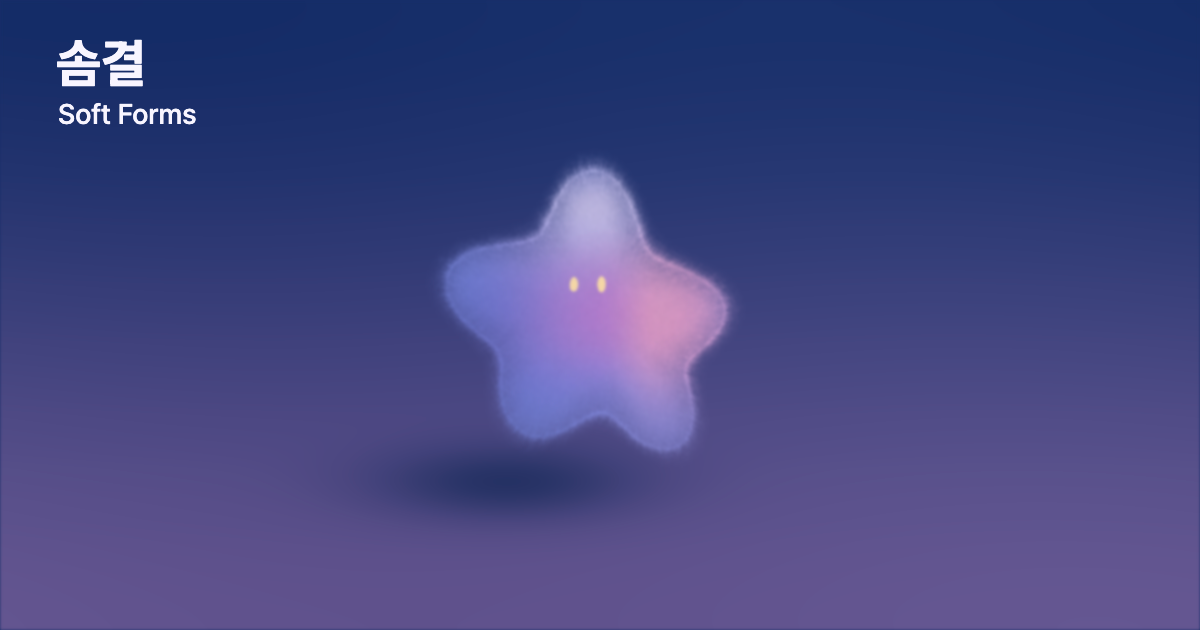
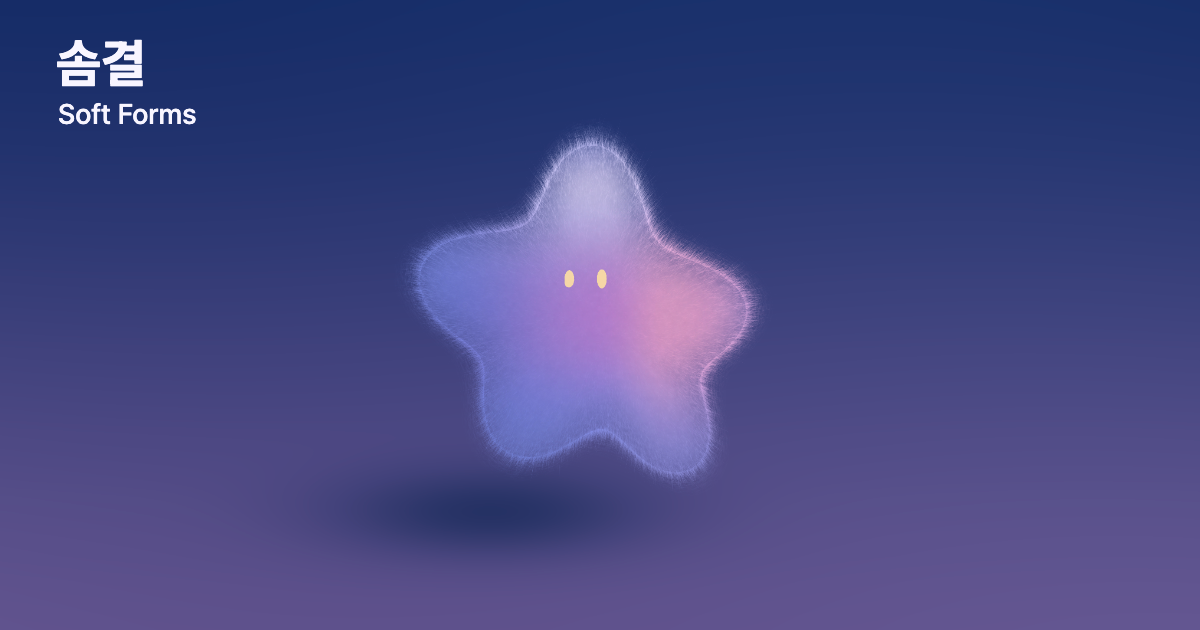
fix(soft-forms): sharpen social share artwork

diff --git a/docs/artworks/soft-forms/social-share-image.md b/docs/artworks/soft-forms/social-share-image.md
@@ -1,6 +1,6 @@
 # 솜결 · Soft Forms 공유 이미지
 
-별 캐릭터가 정면으로 떠 있는 실제 WebGL 장면을 1200 × 630 PNG로 캡처한다. 캡처에서는 형태 선택 UI만 숨겼고, 캐릭터·색상·그림자·솜털은 작품 렌더링 그대로다. 캡처 원본과 제목이 합성된 최종 카드를 분리한다.
+별 캐릭터가 정면으로 떠 있는 실제 WebGL 장면을 1200 × 630 PNG로 캡처한다. 캡처에서는 형태 선택 UI를 숨기고 캔버스의 후처리 흐림을 0px로 낮춘 뒤, 캐릭터가 카드에서 잘 보이도록 캔버스를 1.18배 확대했다. 몸체·색상·그림자·솜털은 작품 렌더링 그대로다. 캡처 원본과 제목이 합성된 최종 카드를 분리한다.
 
 - 원본: `pages/soft-forms/assets/og-artwork.png`
 - 최종 카드: `pages/soft-forms/assets/og-image.png`
@@ -9,4 +9,4 @@
 
 왼쪽 위에 Pretendard Variable로 한글 제목 `솜결`을 700 굵기, 52px, (56, 82)에 놓고 영어 제목 `Soft Forms`를 500 굵기, 28px, (58, 124)에 놓는다. 제목 색은 `#f8f5ff`다. 별의 몸체와 겹치지 않는 어두운 배경 영역이므로 별도 배경 패널은 사용하지 않는다. 폰트 파일은 기존 `pages/rose-glass/assets/PretendardVariable.woff2`를 함께 사용한다.
 
-다시 만들 때는 [공통 제작 절차](../../guides/social-share-images.md)에 따라 기존 Chrome에서 `/soft-forms/?shape=star&t=2`를 1200 × 630, DPR 1로 캡처하고 형태 선택 UI를 제외한 원본 PNG를 교체한다. 개발 서버의 `/scripts/soft-forms-social-image.html`에서 최종 이미지를 직접 PNG로 내보낸다. 포스터 제작을 위해 페이지에 영구적인 캡처 전용 UI나 스타일을 추가하지 않는다.
+다시 만들 때는 [공통 제작 절차](../../guides/social-share-images.md)에 따라 기존 Chrome에서 `/soft-forms/?shape=star&t=2`를 1200 × 630, DPR 1로 연다. WebGL 캔버스 내부 버퍼가 2400 × 1260인지 확인하고, 캡처하는 동안에만 `#variant-picker`를 숨기고 `#artwork`에 `filter: blur(0px)`와 `transform: scale(1.18)`을 적용한다. PNG를 직접 캡처해 원본을 교체한 뒤 개발 서버의 `/scripts/soft-forms-social-image.html`에서 최종 이미지를 PNG로 내보낸다. 임시 스타일은 페이지를 다시 열어 해제하며, 페이지에 영구적인 캡처 전용 UI나 스타일을 추가하지 않는다.
